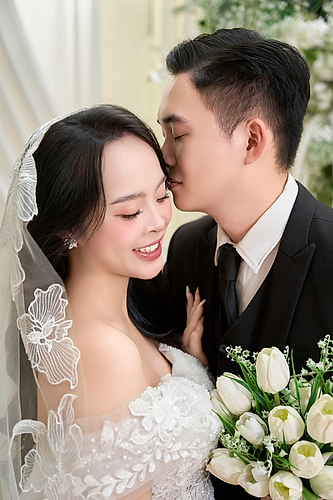
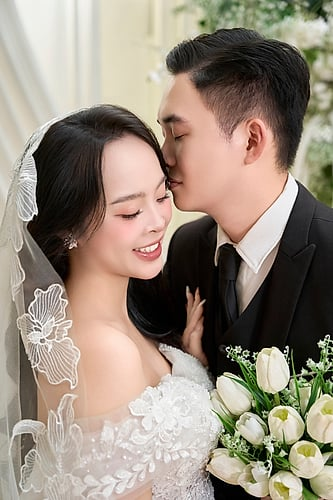
main

diff --git a/resize-images.js b/resize-images.js
@@ -4,14 +4,23 @@ import sharp from "sharp";
 
 const INPUT_DIR = "./public/collections/raw";
 const OUTPUT_DIR = "./public/collections/web";
+const OUTPUT_HQ_DIR = "./public/collections/web-hq";
 
-const LANDSCAPE_WIDTH = 800; // ảnh ngang
-const PORTRAIT_HEIGHT = 500; // ảnh dọc
-const QUALITY = 100;
+// ===== WEB =====
+const LANDSCAPE_WIDTH = 800;
+const PORTRAIT_HEIGHT = 500;
+const QUALITY = 85;
 
-if (!fs.existsSync(OUTPUT_DIR)) {
-  fs.mkdirSync(OUTPUT_DIR, { recursive: true });
-}
+// ===== HQ =====
+const HQ_LANDSCAPE_WIDTH = 1600;
+const HQ_PORTRAIT_HEIGHT = 1000;
+const HQ_QUALITY = 95;
+
+[OUTPUT_DIR, OUTPUT_HQ_DIR].forEach((dir) => {
+  if (!fs.existsSync(dir)) {
+    fs.mkdirSync(dir, { recursive: true });
+  }
+});
 
 const files = fs.readdirSync(INPUT_DIR);
 
@@ -21,41 +30,63 @@ const files = fs.readdirSync(INPUT_DIR);
 
     const inputPath = path.join(INPUT_DIR, file);
     const outputPath = path.join(OUTPUT_DIR, file);
+    const outputHQPath = path.join(OUTPUT_HQ_DIR, file);
 
     try {
       const image = sharp(inputPath);
       const meta = await image.metadata();
 
-      const isLandscape = meta.width > meta.height;
+      const isLandscape =
+        typeof meta.width === "number" &&
+        typeof meta.height === "number" &&
+        meta.width > meta.height;
 
       console.log(
-        `${isLandscape ? "🖼  Landscape" : "📸 Portrait"} → ${file}`
+        `${isLandscape ? "🖼 Landscape" : "📸 Portrait"} → ${file}`
       );
 
+      /* ========= WEB VERSION ========= */
       await image
-      .resize(
-        isLandscape
-          ? { width: LANDSCAPE_WIDTH, fit: "inside" }
-          : { height: PORTRAIT_HEIGHT, fit: "inside" }
-      )
-      .sharpen({
-        sigma: 0.8,
-        m1: 1,
-        m2: 2,
-        x1: 2,
-        y2: 10,
-        y3: 20,
-      })
-      .jpeg({
-        quality: QUALITY,
-        chromaSubsampling: "4:4:4",
-        mozjpeg: true,
-      })
-      .toFile(outputPath);
+        .clone()
+        .resize(
+          isLandscape
+            ? { width: LANDSCAPE_WIDTH, fit: "inside" }
+            : { height: PORTRAIT_HEIGHT, fit: "inside" }
+        )
+        .sharpen({
+          sigma: 0.8,
+          m1: 1,
+          m2: 2,
+        })
+        .jpeg({
+          quality: QUALITY,
+          chromaSubsampling: "4:2:0",
+          mozjpeg: true,
+        })
+        .toFile(outputPath);
+
+      /* ========= HQ VERSION ========= */
+      await image
+        .clone()
+        .resize(
+          isLandscape
+            ? { width: HQ_LANDSCAPE_WIDTH, fit: "inside" }
+            : { height: HQ_PORTRAIT_HEIGHT, fit: "inside" }
+        )
+        .sharpen({
+          sigma: 0.4, // nhẹ hơn để tránh gắt
+        })
+        .jpeg({
+          quality: HQ_QUALITY,
+          chromaSubsampling: "4:4:4",
+          mozjpeg: true,
+        })
+        .toFile(outputHQPath);
+
     } catch (err) {
       console.error(`❌ Error with ${file}`, err);
     }
   }
 
-  console.log("✅ DONE: All images resized correctly");
+  console.log("✅ DONE: Web + HQ images generated");
 })();

diff --git a/src/constants/common.ts b/src/constants/common.ts
@@ -24,19 +24,44 @@ export const PLAYLIST = [
 ];
 
 export const COLLECTION_LEFT = [
-  "https://product.hstatic.net/200000054678/product/6_70ec2e65e933400c87271b223c275173.png",
-  "https://product.hstatic.net/200000054678/product/6_70ec2e65e933400c87271b223c275173.png",
-  "https://product.hstatic.net/200000054678/product/6_70ec2e65e933400c87271b223c275173.png",
-  "https://product.hstatic.net/200000054678/product/6_70ec2e65e933400c87271b223c275173.png",
-  "https://product.hstatic.net/200000054678/product/6_70ec2e65e933400c87271b223c275173.png",
-  "https://daknong.1cdn.vn/2025/07/25/1(1).jpg",
+  "/collections/web-hq/HLE08818.jpg",
+  "/collections/web-hq/HLE08783.jpg",
+  "/collections/web-hq/HLE09376.jpg",
+  "/collections/web-hq/HLE08875.jpg",
+  "/collections/web-hq/HLE09215.jpg",
+  "/collections/web-hq/HLE09147_cut.jpg",
 ]
 
 export const COLLECTION_RIGHT = [
-  "https://daknong.1cdn.vn/2025/07/25/1(1).jpg",
-  "https://product.hstatic.net/200000054678/product/6_70ec2e65e933400c87271b223c275173.png",
-  "https://product.hstatic.net/200000054678/product/6_70ec2e65e933400c87271b223c275173.png",
-  "https://product.hstatic.net/200000054678/product/6_70ec2e65e933400c87271b223c275173.png",
+  "/collections/web-hq/HLE08843.jpg",
+  "/collections/web-hq/HLE09330.jpg",
+  "/collections/web-hq/HLE08767.jpg", 
+  "/collections/web-hq/HLE09136.jpg",
+]
+
+export const Full_COLLECTION = [
+  ...COLLECTION_LEFT,
+  ...COLLECTION_RIGHT,
+  "/collections/web-hq/HLE09163.jpg",
+  "/collections/web-hq/HLE09347.jpg",
+  "/collections/web-hq/HLE08900.jpg",
+  "/collections/web-hq/HLE08922.jpg",
+  "/collections/web-hq/HLE08966.jpg",
+  "/collections/web-hq/HLE09021.jpg",
+  "/collections/web-hq/HLE09064.jpg",
+  "/collections/web-hq/HLE09361.jpg",
+  "/collections/web-hq/HLE09088.jpg",
+  "/collections/web-hq/HLE09094.jpg",
+  "/collections/web-hq/HLE09129.jpg",
+  "/collections/web-hq/HLE09469.jpg",
+  "/collections/web-hq/HLE09181.jpg",
+  "/collections/web-hq/HLE09186.jpg",
+  "/collections/web-hq/HLE09246.jpg",
+  "/collections/web-hq/HLE09295.jpg",
+  "/collections/web-hq/HLE09334.jpg",
+  "/collections/web-hq/HLE09343.jpg",
+  "/collections/web-hq/HLE09397.jpg",
+  "/collections/web-hq/HLE09478.jpg"
 ]
 
 export const MAIN_COLOR = '#988465';

diff --git a/src/components/home/CollectionSection.tsx b/src/components/home/CollectionSection.tsx
@@ -10,7 +10,7 @@ import {
 import CloseIcon from "@mui/icons-material/Close";
 import ArrowBackIosNewIcon from "@mui/icons-material/ArrowBackIosNew";
 import ArrowForwardIosIcon from "@mui/icons-material/ArrowForwardIos";
-import { COLLECTION_LEFT, COLLECTION_RIGHT, MAIN_COLOR } from "../../constants/common";
+import { COLLECTION_LEFT, COLLECTION_RIGHT, Full_COLLECTION, MAIN_COLOR } from "../../constants/common";
 import { useContentWidth } from "../../hooks/useContentWidth";
 import SharedImage from "../SharedImage";
 import { ExpandMore } from "@mui/icons-material";
@@ -18,8 +18,6 @@ import { useResponsive } from "../../hooks/useResponsive";
 
 // === ADD ===
 import { motion, Variants } from "framer-motion";
-
-const allImages = [...COLLECTION_LEFT, ...COLLECTION_RIGHT];
 
 const CollectionSection = () => {
   const [open, setOpen] = useState(false);
@@ -74,10 +72,10 @@ const CollectionSection = () => {
   const closeViewer = () => setOpen(false);
 
   const next = () =>
-    setCurrent((prev) => (prev + 1) % allImages.length);
+    setCurrent((prev) => (prev + 1) % Full_COLLECTION.length);
 
   const prev = () =>
-    setCurrent((prev) => (prev - 1 + allImages.length) % allImages.length);
+    setCurrent((prev) => (prev - 1 + Full_COLLECTION.length) % Full_COLLECTION.length);
 
   useEffect(() => {
     const el = thumbRefs.current[current];
@@ -234,7 +232,7 @@ const CollectionSection = () => {
 
             {/* Image */}
             <SharedImage
-              src={allImages[current]}
+              src={Full_COLLECTION[current]}
               alt="preview"
               variant="contain"
               width="90vw"
@@ -282,7 +280,7 @@ const CollectionSection = () => {
                 backdropFilter: "blur(6px)",
               }}
             >
-              {allImages.map((src, index) => {
+              {Full_COLLECTION.map((src, index) => {
                 const active = index === current;
 
                 return (

diff --git a/src/components/home/IntroSection.tsx b/src/components/home/IntroSection.tsx
@@ -136,12 +136,13 @@ export default function IntroSection() {
               textAlign: {xs: 'justify', sm: 'center'},
             }}
           >
-            Cảm ơn bạn đã dành tình cảm cho vợ chồng mình. Chúng mình biết các bạn đều đang rất bận, bận với công việc, với cuộc sống và với cả gia đình bạn.
+            Hành trình yêu thương của chúng mình sẽ trọn vẹn hơn rất nhiều khi có sự hiện diện của bạn – những người thân yêu và trân quý.
             {"\n"}{"\n"}
-            Nhưng thực sự sẽ rất tuyệt vời nếu như ngày Hạnh Phúc của chúng mình có thêm sự góp mặt của bạn và người thương. 
-            Vợ chồng mình rất hi vọng sẽ có mặt bạn trong ngày quan trọng này để chứng kiến và chia sẻ niềm hạnh phúc này cùng chúng mình.
+            Giữa những bộn bề của cuộc sống, sự sắp xếp thời gian và tấm lòng mà bạn dành cho vợ chồng mình luôn là điều vô cùng đáng quý.
             {"\n"}{"\n"}
-            Một lần nữa, chân thành cảm ơn tất cả các bạn 💗
+            Chúng mình mong rằng trong ngày Hạnh Phúc sắp tới, sẽ được đón bạn đến chung vui, chứng kiến khoảnh khắc ý nghĩa này và cùng chúng mình lưu giữ thêm những kỷ niệm thật đẹp.
+            {"\n"}{"\n"}
+            Chân thành cảm ơn và hẹn gặp bạn trong ngày trọng đại 💗
           </Typography>
         </motion.div>
 
@@ -162,7 +163,7 @@ export default function IntroSection() {
           >
             <Box
               component="img"
-              src="https://daknong.1cdn.vn/2025/07/25/1(1).jpg"
+              src="/images/introImage.png"
               alt="wedding"
               sx={{
                 width: {xs: "100%", sm: "80%"},

diff --git a/src/components/home/ProfileSection.tsx b/src/components/home/ProfileSection.tsx
@@ -35,14 +35,14 @@ interface TabItem {
 const PROFILES: ProfileItem[] = [
   {
     id: 1,
-    name: "Xuân Thịnh",
-    image: "https://img.tripi.vn/cdn-cgi/image/width=700,height=700/https://gcs.tripi.vn/public-tripi/tripi-feed/img/474087zej/anh-chu-re-don-2k_013637758.jpg",
+    name: "Minh Hoàng",
+    image: "/collections/web-hq/HLE09478.jpg",
     text: `Xuất thân từ mảnh đất Nghệ An nhiều nắng gió. Lên Hà Nội học tập và làm việc từ năm 2012...`,
   },
   {
     id: 2,
-    name: "Diễm Hằng",
-    image: "https://bizweb.dktcdn.net/100/368/426/products/set-vay-chup-anh-cuoi-ngoai-canh-jpeg.jpg?v=1703058721527",
+    name: "Khánh Huyền",
+    image: "/collections/web-hq/HLE09469.jpg",
     text: `Hằng, một cô gái nhỏ xinh đến từ Bắc Giang...`,
   },
 ];
@@ -81,7 +81,7 @@ function HeaderTabs(props: {
       sx={{
         p: 2,
         backgroundImage: `linear-gradient(rgba(0, 0, 0, 0.6), rgba(0, 0, 0, 0.6)), url('${src}')`,
-        backgroundPosition: "0%",
+        backgroundPosition: "0",
         backgroundSize: "cover",
         mb: {xs: 2, sm: 4},
         mx: {xs: 1, sm: 0},
@@ -223,7 +223,7 @@ export default function ProfileSection() {
                     width: "100%",
                     display: "block",
                     borderRadius: isMobile ? 2 : 4,
-                    height: isMobile ? 500 : 700
+                    height: isMobile ? 500 : 700,
                   }}
                 />
               </motion.div>

diff --git a/src/components/home/GroomBrideSection.tsx b/src/components/home/GroomBrideSection.tsx
@@ -153,7 +153,7 @@ export default function GroomBrideSection() {
           width: compactWidth,
           mx: "auto",
           borderRadius: {xs: 0, sm: 3},
-          backgroundImage: "url('https://daknong.1cdn.vn/2025/07/25/1(1).jpg')",
+          backgroundImage: "url('/collections/web-hq/HLE09246.jpg')",
           backgroundSize: "cover",
           backgroundPosition: "center",
           overflow: "hidden",
@@ -213,7 +213,7 @@ export default function GroomBrideSection() {
               }}
             >
               <PersonCard
-                image="https://img.tripi.vn/cdn-cgi/image/width=700,height=700/https://gcs.tripi.vn/public-tripi/tripi-feed/img/474087zej/anh-chu-re-don-2k_013637758.jpg"
+                image="/collections/web/HLE09181.jpg"
                 name="Minh Hoàng"
                 father="Trần Quang Huy"
                 mother="Nguyễn Thị Vân"
@@ -233,7 +233,7 @@ export default function GroomBrideSection() {
               }}
             >
               <PersonCard
-                image="https://bizweb.dktcdn.net/100/368/426/products/set-vay-chup-anh-cuoi-ngoai-canh-jpeg.jpg?v=1703058721527"
+                image="/collections/web/HLE09064.jpg"
                 name="Khánh Huyền"
                 father="Nguyễn Trọng Nam"
                 mother="Nguyễn Thị Cúc"

diff --git a/src/components/SharedImage.tsx b/src/components/SharedImage.tsx
@@ -17,6 +17,7 @@ export type SharedImageProps = {
   onClick?: () => void;
   className?: string;
   style?: React.CSSProperties;
+  imgStyle?: React.CSSProperties;
 };
 
 const defaultFallback =
@@ -38,6 +39,7 @@ export const SharedImage: React.FC<SharedImageProps> = ({
   onClick,
   className,
   style,
+  imgStyle
 }) => {
   const [loaded, setLoaded] = useState(false);
   const [error, setError] = useState(false);
@@ -76,6 +78,7 @@ export const SharedImage: React.FC<SharedImageProps> = ({
     transition: "opacity .24s ease",
     opacity: loaded ? 1 : 0,
     display: "block",
+    ...imgStyle
   };
 
   const effectiveSrc = !error && src ? src : fallbackSrc;
